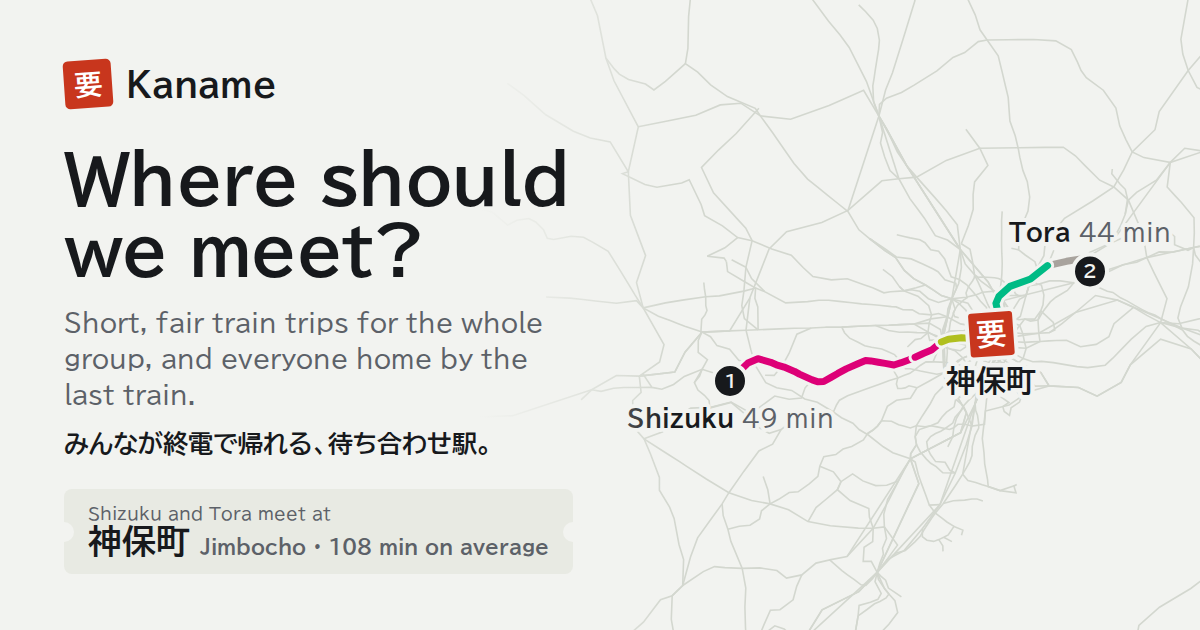
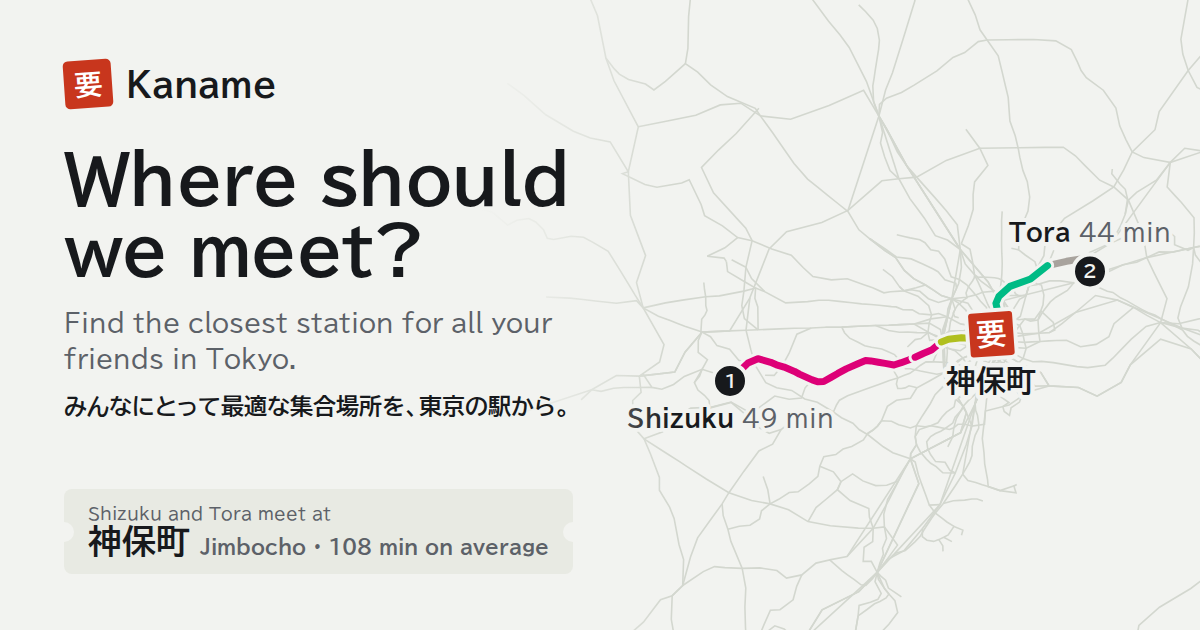
feat: use the owner's line in the link preview
"Find the closest station for all your friends in Tokyo", with the
Japanese line みんなにとって最適な集合場所を、東京の駅から。 in the
description and under the headline of the preview image.

Changed region(s): [[0.0308, 0.4825, 0.4625, 0.7238]]

diff --git a/web/scripts/og.ts b/web/scripts/og.ts
@@ -72,12 +72,12 @@ svg { position: absolute; inset: 0; }
 .seal { fill: #fff; font: 700 30px "BIZ UDPGothic"; text-anchor: middle; dominant-baseline: central; }
 .meet { font: 700 30px "BIZ UDPGothic"; fill: ${INK}; paint-order: stroke; stroke: ${PAPER}; stroke-width: 9px; stroke-linejoin: round; }
 .fade { position: absolute; inset: 0; background: linear-gradient(90deg, ${PAPER} 0%, ${PAPER} 40%, rgba(242, 243, 240, 0) 56%); }
-.text { position: absolute; left: 64px; top: 60px; width: 520px; display: grid; gap: 18px; }
+.text { position: absolute; left: 64px; top: 60px; width: 580px; display: grid; gap: 18px; }
 .brand { display: flex; align-items: center; gap: 14px; font: 700 34px "BIZ UDPGothic"; }
 .brand i { font-style: normal; width: 48px; height: 48px; display: grid; place-items: center; background: ${SEAL}; color: #fff; border-radius: 5px; font-size: 28px; transform: rotate(-4deg); }
 h1 { font: 700 66px/1.08 "BIZ UDPGothic"; letter-spacing: -0.01em; margin-top: 18px; }
-.sub { font: 400 25px/1.45 "BIZ UDPGothic"; color: ${MUTED}; }
-.ja { font: 700 25px "BIZ UDPGothic"; }
+.sub { font: 400 25px/1.45 "BIZ UDPGothic"; color: ${MUTED}; max-width: 520px; }
+.ja { font: 700 23px "BIZ UDPGothic"; white-space: nowrap; }
 .ticket { position: absolute; left: 64px; bottom: 56px; display: grid; gap: 2px; padding: 16px 24px; background: #e8eae3; border-radius: 8px; }
 .ticket::before, .ticket::after { content: ""; position: absolute; top: 50%; margin-top: -10px; width: 20px; height: 20px; border-radius: 50%; background: ${PAPER}; }
 .ticket::before { left: -10px; } .ticket::after { right: -10px; }
@@ -90,8 +90,8 @@ h1 { font: 700 66px/1.08 "BIZ UDPGothic"; letter-spacing: -0.01em; margin-top: 1
 <div class="text">
   <div class="brand"><i>要</i>Kaname</div>
   <h1>Where should<br>we meet?</h1>
-  <p class="sub">Short, fair train trips for the whole group, and everyone home by the last train.</p>
-  <p class="ja">みんなが終電で帰れる、待ち合わせ駅。</p>
+  <p class="sub">Find the closest station for all your friends in Tokyo.</p>
+  <p class="ja">みんなにとって最適な集合場所を、東京の駅から。</p>
 </div>
 <div class="ticket"><small>${people.map((p) => p.label).join(" and ")} meet at</small><b>${best.station.ja}<span>${best.station.en} · ${Math.round(best.average)} min on average</span></b></div>
 </body></html>`;

diff --git a/web/index.html b/web/index.html
@@ -6,14 +6,14 @@
     <meta name="theme-color" content="#f2f3f0" media="(prefers-color-scheme: light)" />
     <meta name="theme-color" content="#0f1215" media="(prefers-color-scheme: dark)" />
     <title>Kaname 要 · Where should we meet?</title>
-    <meta name="description" content="Add where everyone is coming from. Kaname finds the Tokyo station where the group's train trips are short and fair, and checks everyone can get home." />
+    <meta name="description" content="Find the closest station for all your friends in Tokyo. Add everyone's station, and Kaname finds the one with the shortest train trips for all." />
     <link rel="icon" href="favicon.svg" type="image/svg+xml" />
     <link rel="icon" href="favicon-32.png" sizes="32x32" type="image/png" />
     <link rel="apple-touch-icon" href="apple-touch-icon.png" />
     <meta property="og:type" content="website" />
     <meta property="og:site_name" content="Kaname 要" />
     <meta property="og:title" content="Kaname 要 · Where should we meet?" />
-    <meta property="og:description" content="Add where everyone is coming from. Kaname finds the Tokyo station where the group's train trips are short and fair, and checks everyone can get home." />
+    <meta property="og:description" content="Find the closest station for all your friends in Tokyo. Add everyone's station, and Kaname finds the one with the shortest train trips for all." />
     <meta property="og:url" content="%SITE_URL%/" />
     <meta property="og:image" content="%SITE_URL%/og.png" />
     <meta property="og:image:type" content="image/png" />

diff --git a/DECISIONS.md b/DECISIONS.md
@@ -208,7 +208,7 @@ h14 (舞浜→新宿, Keiyo→Chuo at 東京) sits at exactly −5. **Pattern:**
 | 2026-11-09 | The example group is Shizuku (聖蹟桜ヶ丘) and Tora (柴又), and the empty name field hints "Hitori" | Each lives at that station in their story. The engine sends them to 神保町, the book town, within 3 minutes of each other. |
 | 2026-11-09 | The station a meeting end ruled out comes from a second rank without the end | The engine's exclusion reasons are English sentences. Ranking again (under 1 ms) gives the people and last trains, so the note works in both languages. |
 | 2026-11-09 | Draw-in animates by calling GeoJSONSource.setData each frame with cut-off legs | MapLibre has no line trim. The routes have a few hundred points, so a frame costs little. |
-| 2026-11-09 | Link preview: "Kaname 要 · Where should we meet?", a 149-character description, and a 1200×630 image of the example routes meeting at 神保町 | The image shows what the app does, with the real routes, in the app's own look. Previews from Slack, X, LINE and Discord use these Open Graph tags. |
+| 2026-11-09 | Link preview: "Kaname 要 · Where should we meet?", the owner's line "Find the closest station for all your friends in Tokyo" (みんなにとって最適な集合場所を、東京の駅から。), and a 1200×630 image of the example routes meeting at 神保町 | The owner chose the line. The image shows what the app does, with the real routes, in the app's own look. Previews from Slack, X, LINE and Discord use these Open Graph tags. |
 | 2026-11-09 | The preview image and icons are rendered from the data by `npm --prefix web run og` and committed | The image changes only when the design does. Rendering at build time would need a browser in the build. |
 | 2026-11-09 | `web/static/` holds the site's own files, copied by a small Vite plugin | Vite's public folder is the pipeline's `data/`, and the site files are not data. |
 | 2026-11-09 | Wrangler runs through `npx` at a pinned version (4.153.0), not as a dependency | Only a deploy needs it, and it is large. The deploy uses the owner's own Cloudflare account, not a temporary account, because a temporary account expires and accepts Cloudflare's terms for the owner. |
